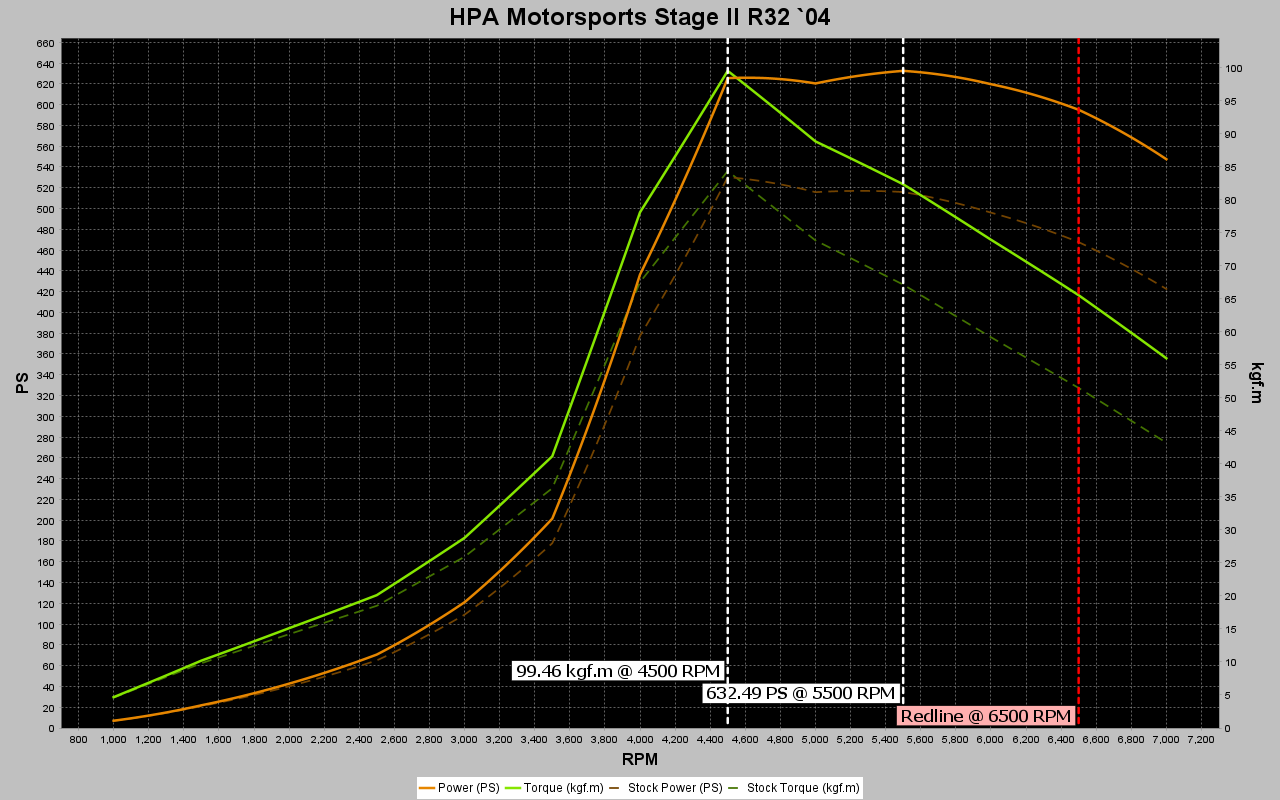
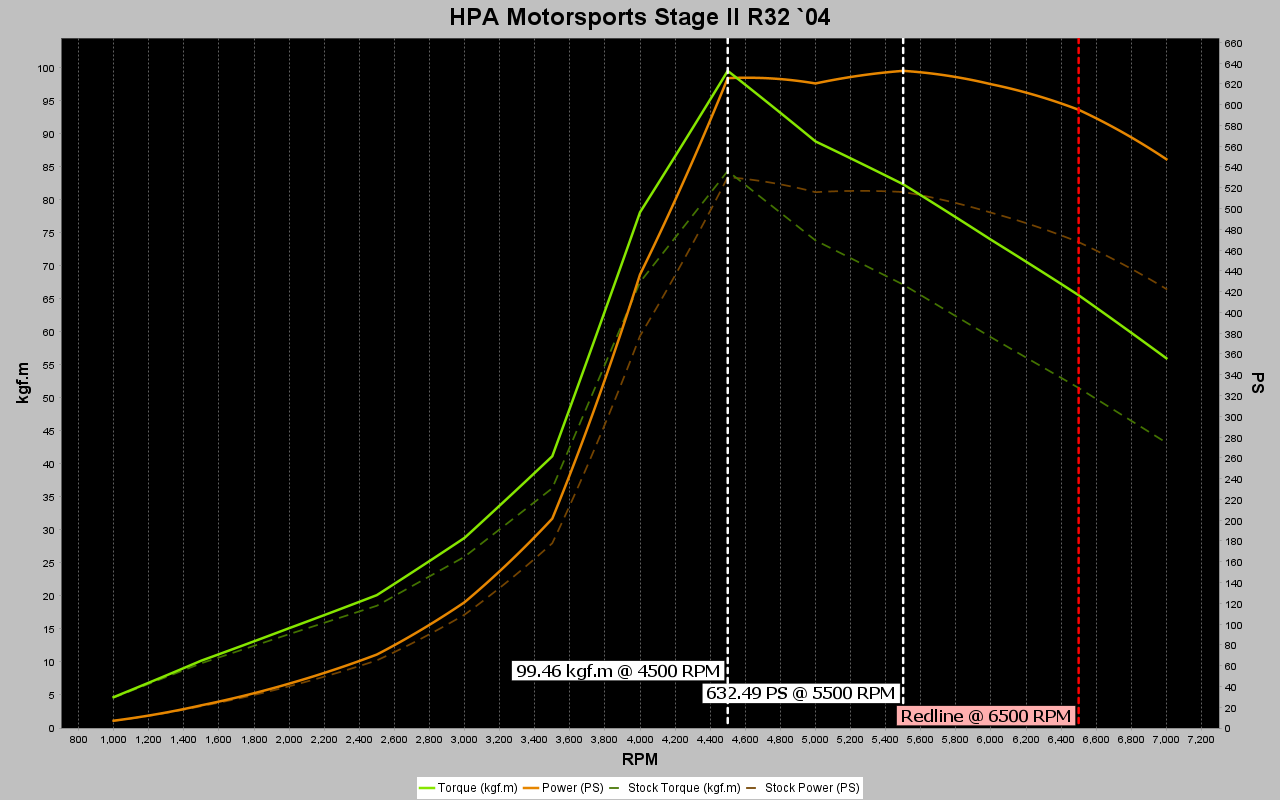
Update README.md with new Images

diff --git a/README.md b/README.md
@@ -37,6 +37,10 @@ This UI style will be system-dependent. Windows and Mac OS uses Java's system-co
 
 ![Torque / power graph for the HPA Stage II R32](https://raw.githubusercontent.com/MF42-DZH/GT4EngineGrapher/dev/img/EngineGraph.png)
 
+### Display Options
+
+![Display Options Picker](https://raw.githubusercontent.com/MF42-DZH/GT4EngineGrapher/dev/img/DisplayOptions.png)
+
 ### Wear Editor
 
 ![Wear Editor for Oil and Engine Wear](https://raw.githubusercontent.com/MF42-DZH/GT4EngineGrapher/dev/img/WearEditor.png)
